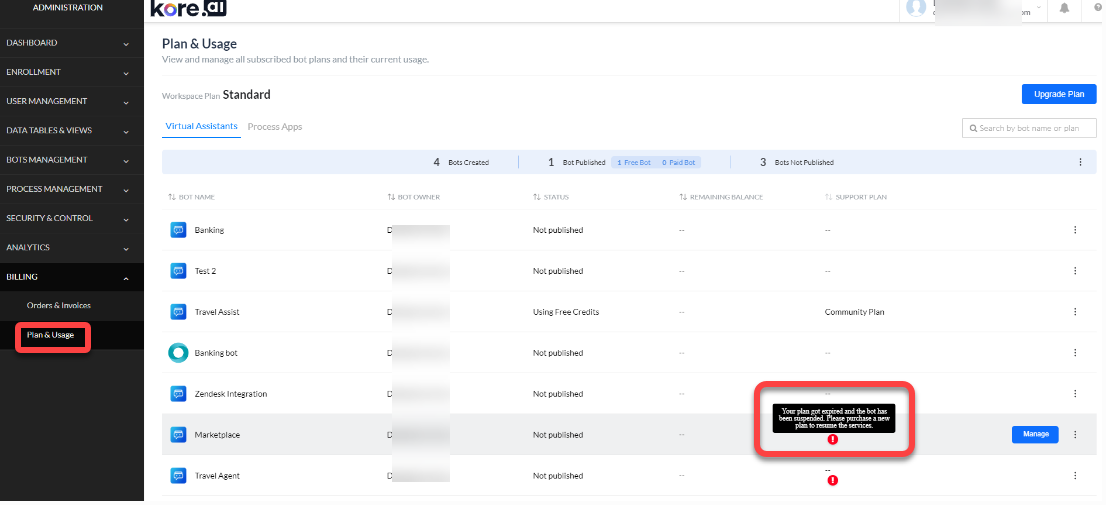
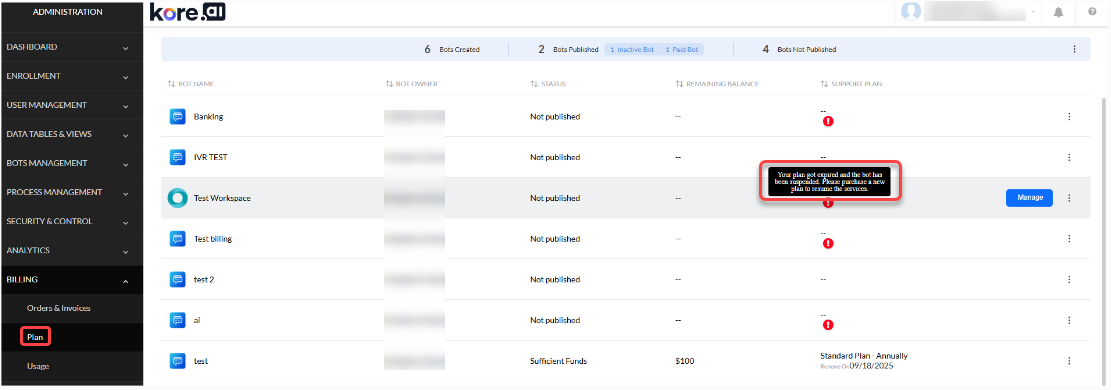
updated billing doc

diff --git a/docs/xo/administration/billing.md b/docs/xo/administration/billing.md
@@ -28,10 +28,10 @@ You have the option to download the Invoice from the invoice field.
 
     This section is not available for customers under the Enterprise plan.
 
-## Plan & Usage
+## Plan
 
 **Admin** users can view and manage all plan subscriptions for their account and published apps on the **Admin Console**. 
-The Plan & Usage section displays all the Bots in your account, along with their status and balance.
+The Plan section displays all the Bots in your account, along with their status and balance.
 An **information** icon highlights plan changes, such as downgrade notifications and expiring plans.
 Click the **Ellipses** icon to change the Bot Owner.
 
@@ -41,22 +41,6 @@ Hover over a line item to view the **Manage** option.
 The **Manage** option displays the current plan based on eligibility and usage details. You can change the plan, add funds, and request for extension of your plan from here.
 
 <img src="../images/billing-img3.png" alt="Plan based eligibility and usage details" title="Plan based eligibility and usage details" style="border: 1px solid gray;zoom:70%;"/>
-
-### Navigating to Plan and Usage		
-
-!!! note
-
-      Only a user with **Admin** privileges can access the Admin Console.		
-
-To access the **Plan and Usage** feature on the **Admin Console**, follow the steps below:
-
-1. On the Bot Builder, click the **profile** icon in the top right corner.
-2. Click **Go to Admin Console**.  
-    <img src="../images/up(36).png" alt="Admin Console" title="Admin Console" style="border:1px solid gray;zoom:70%;"> 
-    
-3. Login and navigate to **BILLING** > **PLAN & USAGE** on the left menu.  
-    <img src="../images/up(32).png" alt="Plan and Usage - Admin Console" title="Plan and Usage - Admin Console" style="border:1px solid gray;zoom:70%;">
-        
 
 !!! note
 
